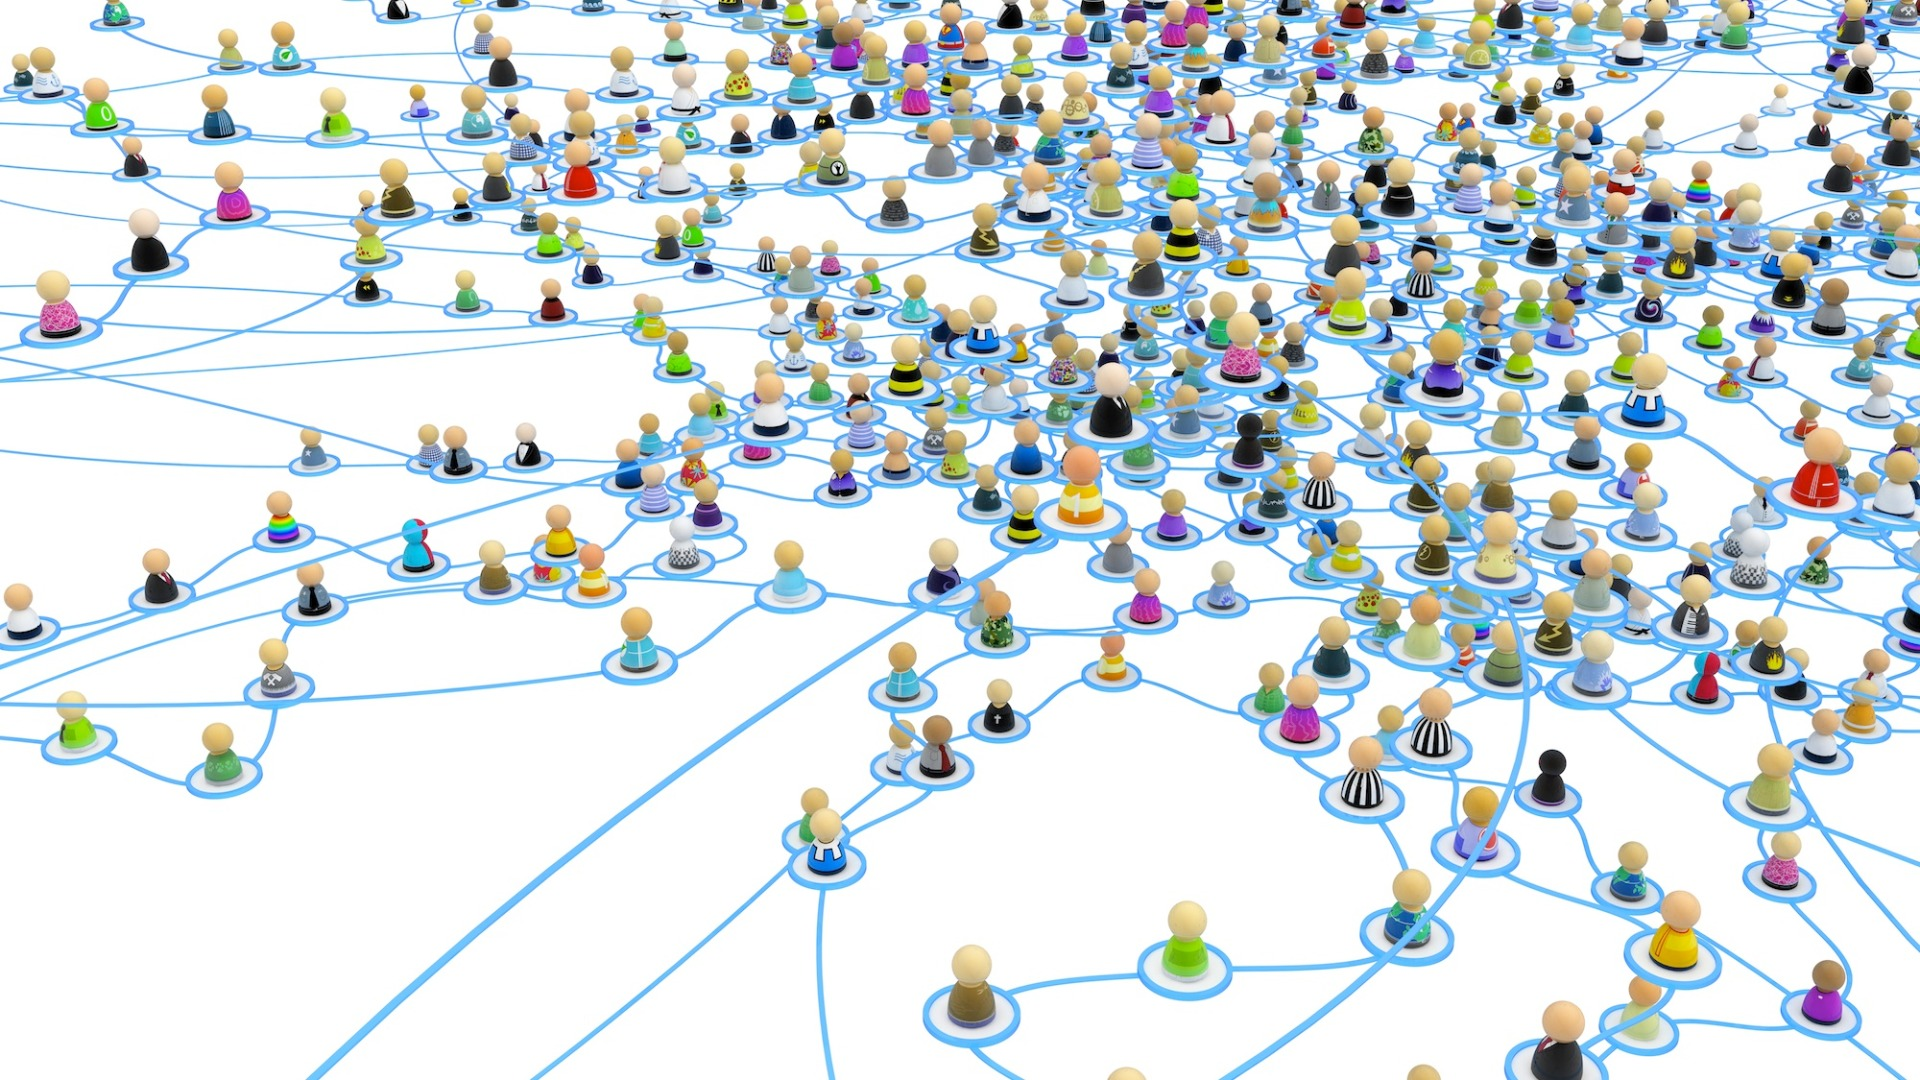
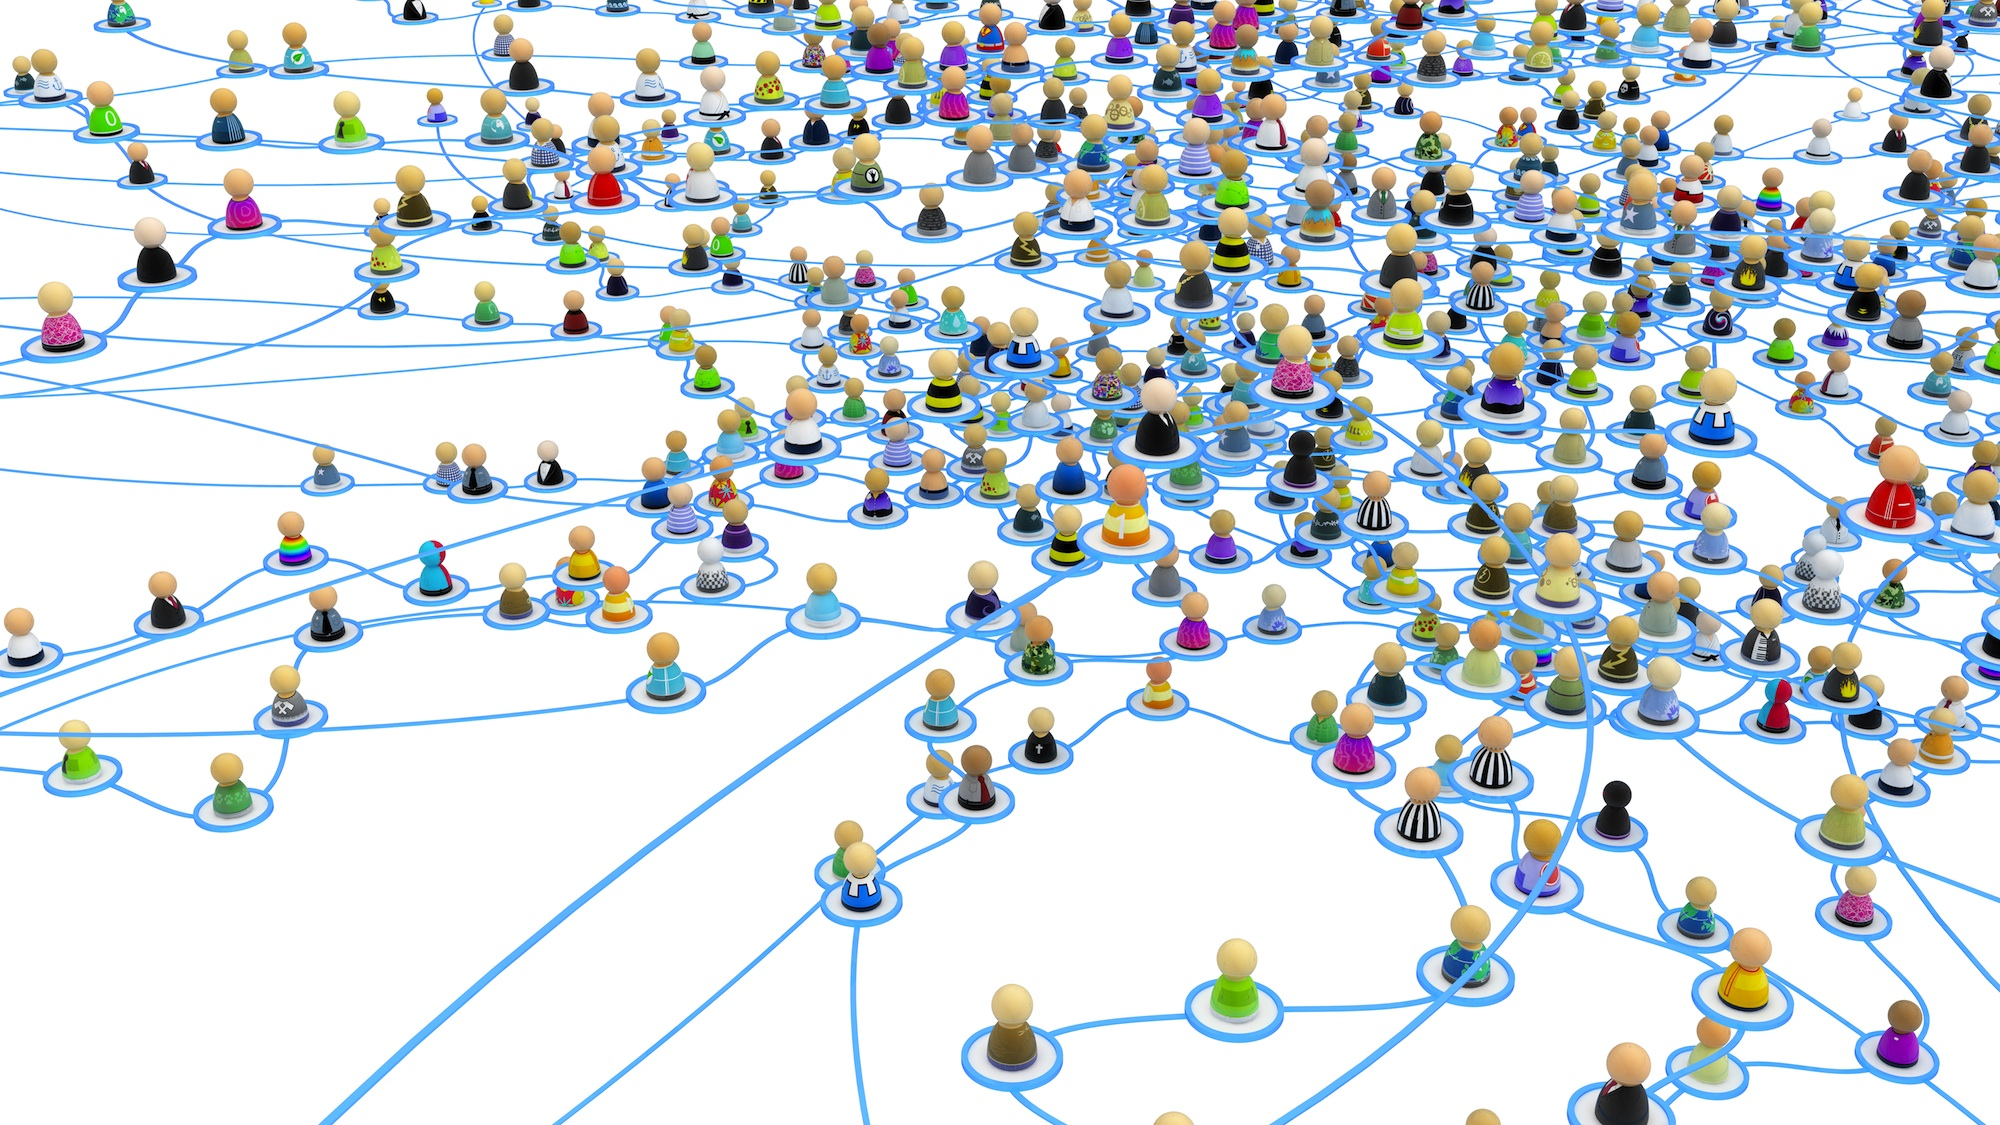
Updated imgs

diff --git a/src/app/home/home.component.html b/src/app/home/home.component.html
@@ -1,13 +1,13 @@
-<div id="imgCarousel" class="carousel slide" data-ride="carousel">
+<div id="imgCarousel" class="carousel slide carousel-fade" data-ride="carousel" data-pause="false">
     <div class="carousel-inner">
         <div class="carousel-item active">
-            <img class="d-block w-100" src="../../assets/Home/h1.jpg" alt="First slide">
+            <img class="d-block" src="../../assets/Home/h1.jpg" alt="First slide">
         </div>
         <div class="carousel-item">
-            <img class="d-block w-100" src="../../assets/Home/h2.jpg" alt="Second slide">
+            <img class="d-block" src="../../assets/Home/h2.jpg" alt="Second slide">
         </div>
         <div class="carousel-item">
-            <img class="d-block w-100" src="../../assets/Home/h3.jpg" alt="Third slide">
+            <img class="d-block" src="../../assets/Home/h3.jpg" alt="Third slide">
         </div>
     </div>
 </div>

diff --git a/src/app/filter/filter.component.css b/src/app/filter/filter.component.css
@@ -1,5 +1,5 @@
 #filter {
-    background-image: url(../../assets/Home/h3.jpg);
+    background-image: url(../../assets/Home/network.jpg);
     background-position: left top; 
     min-height: 100%;
     padding-top: 20px;

diff --git a/src/app/home/home.component.css b/src/app/home/home.component.css
@@ -4,3 +4,8 @@
     position: absolute;
     z-index: -1;
 }
+
+img {
+    height: 100vh;
+    width: 100vw;
+}
